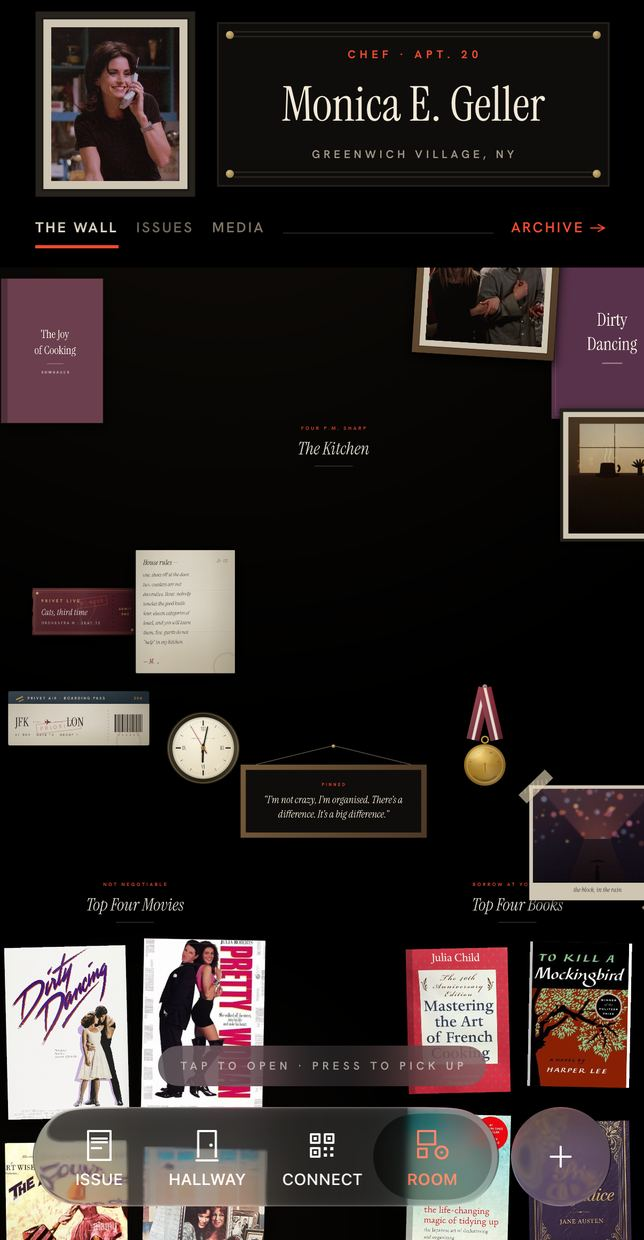
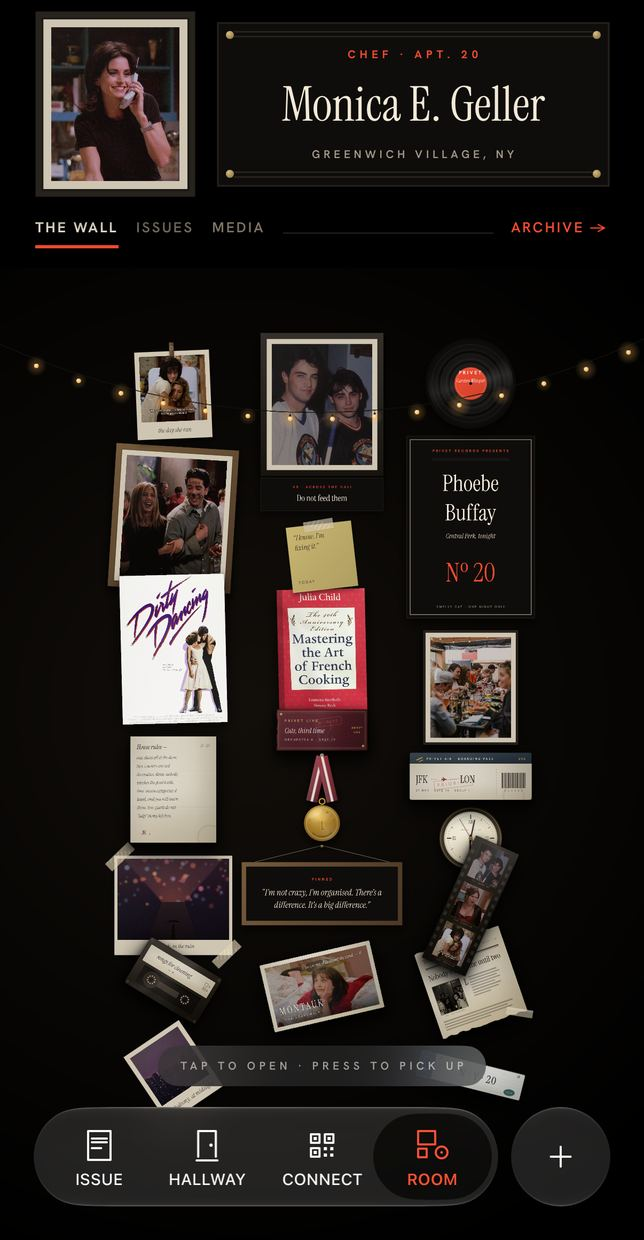
Re-shoot the wall from the packed arrangement
The wall shot now holds every kind at once and fills the frame: the
polaroid on the light string, a framed photograph, the record, the gig
poster, the plaque, the sticky note, a film poster, the Julia Child
cover, a framed print, the ticket stub, the boarding pass, the
house-rules letter, the medal, the taped print, the pinned quote, the
clock, the film strip, the cassette, the Montauk postcard, the press
clipping, a polaroid and the plate.

Captured at PRIVET_PACK with the camera at 0.32 on y=906, which frames
the whole arrangement with even margins and clips nothing.

diff --git a/src/components/shot.tsx b/src/components/shot.tsx
@@ -3,7 +3,7 @@
  * markup reads plainly, which means a browser will happily keep serving the
  * previous capture from cache — this is what makes it fetch the new one.
  */
-const CAPTURE = "3";
+const CAPTURE = "4";
 
 /**
  * A screen, as it actually runs. Captured from the app in the simulator once
